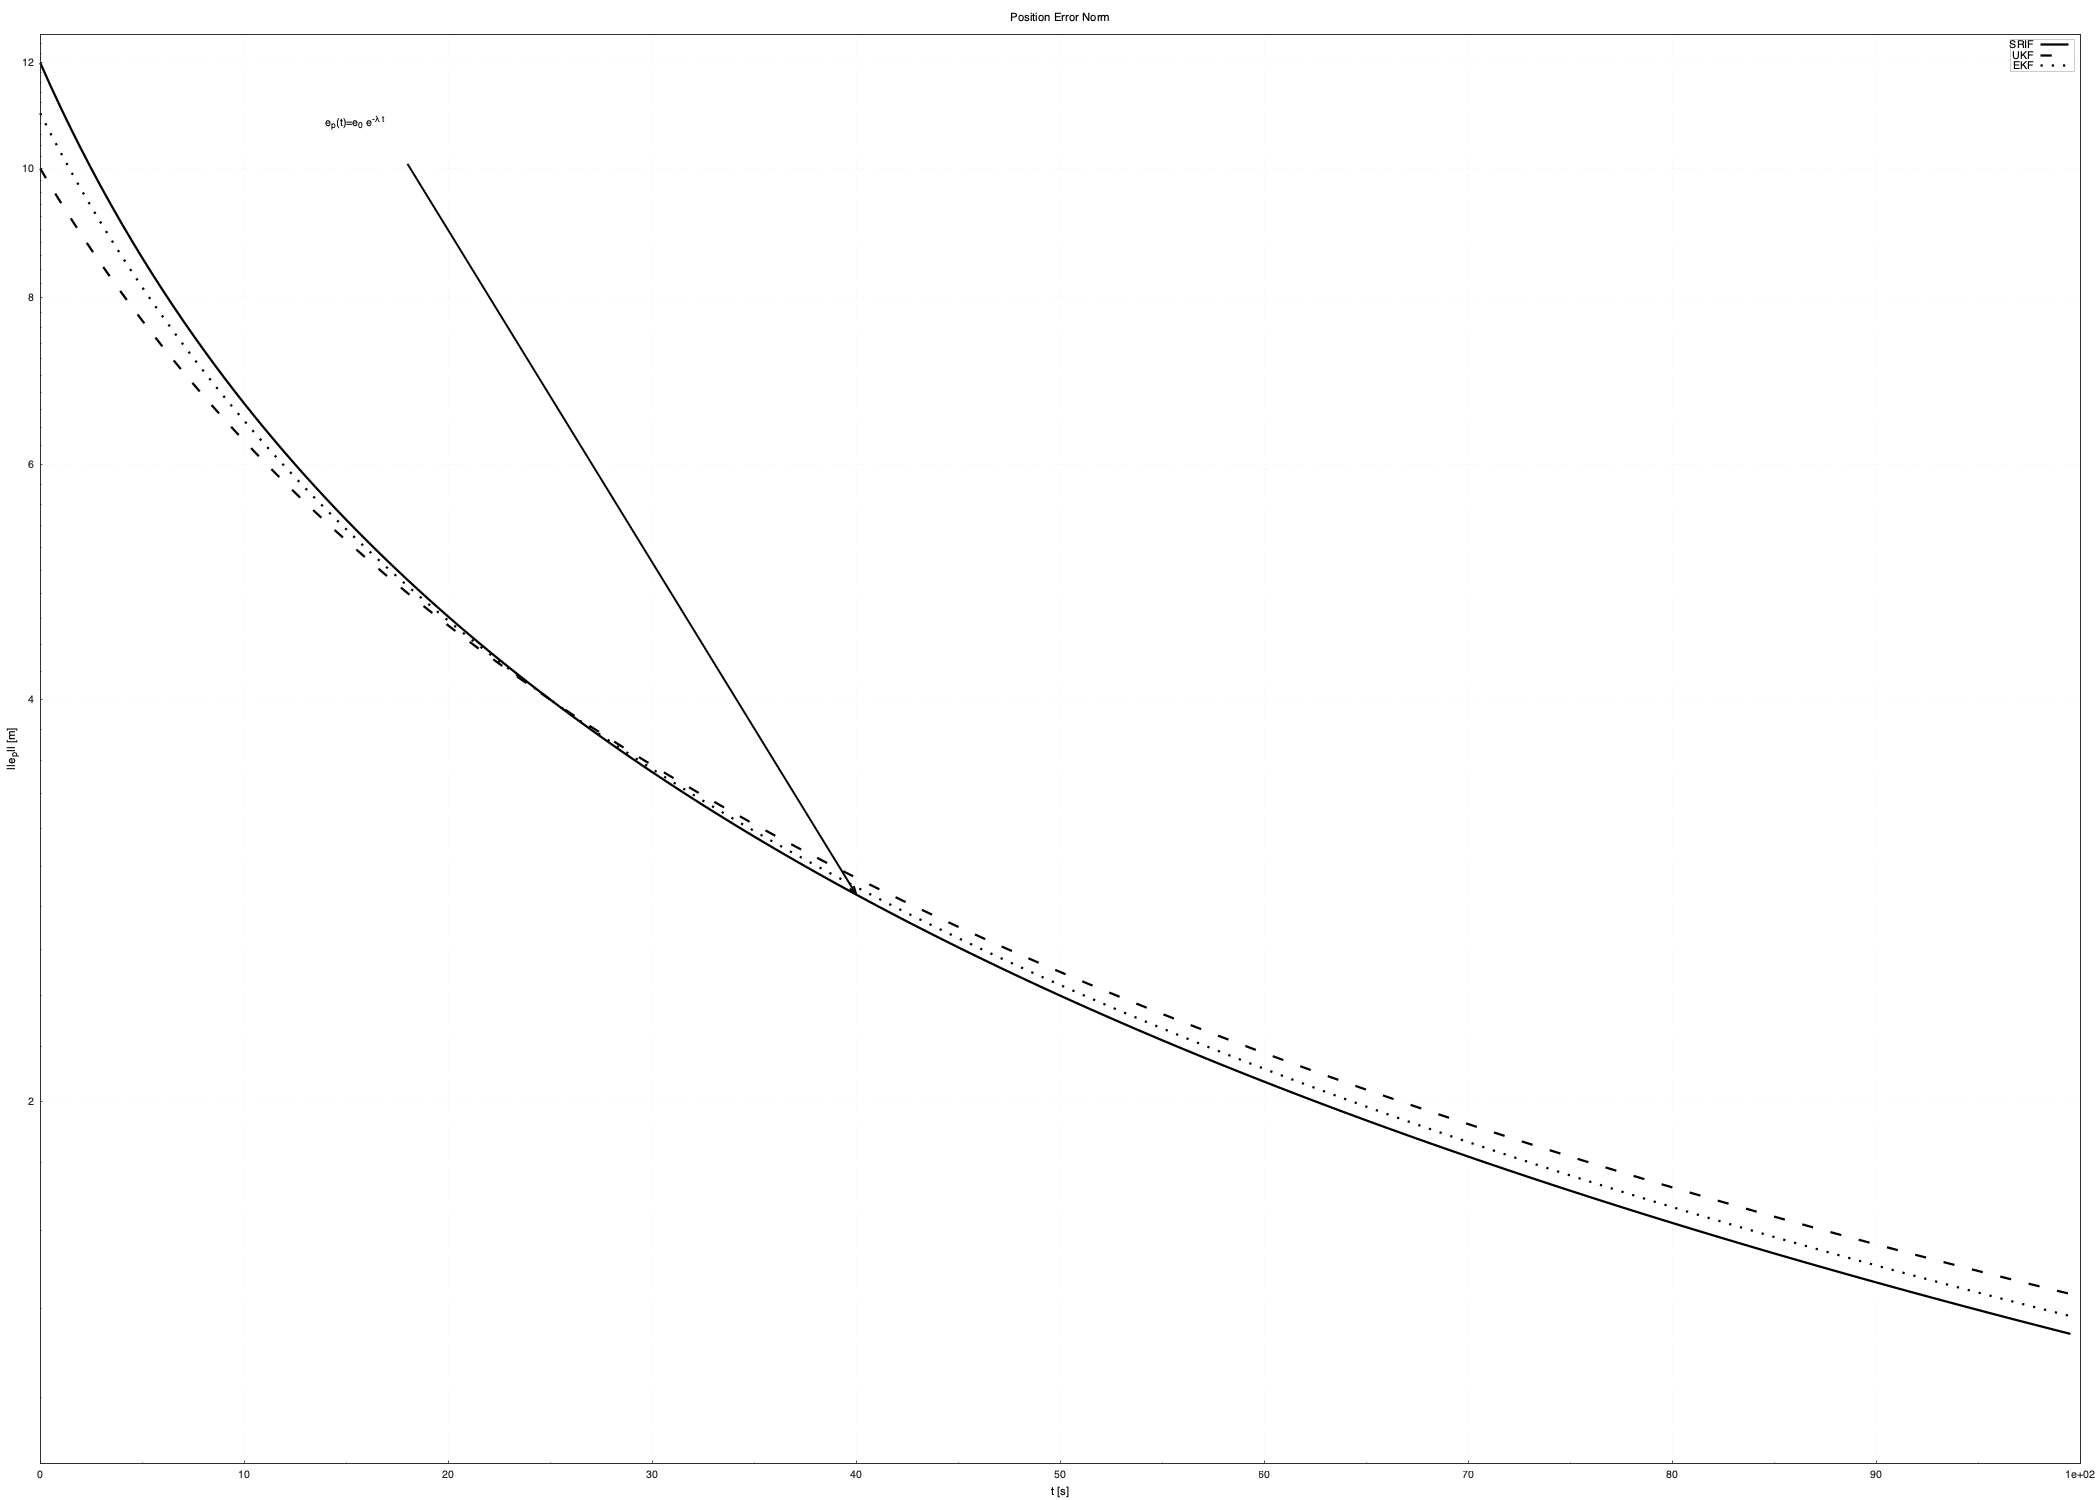
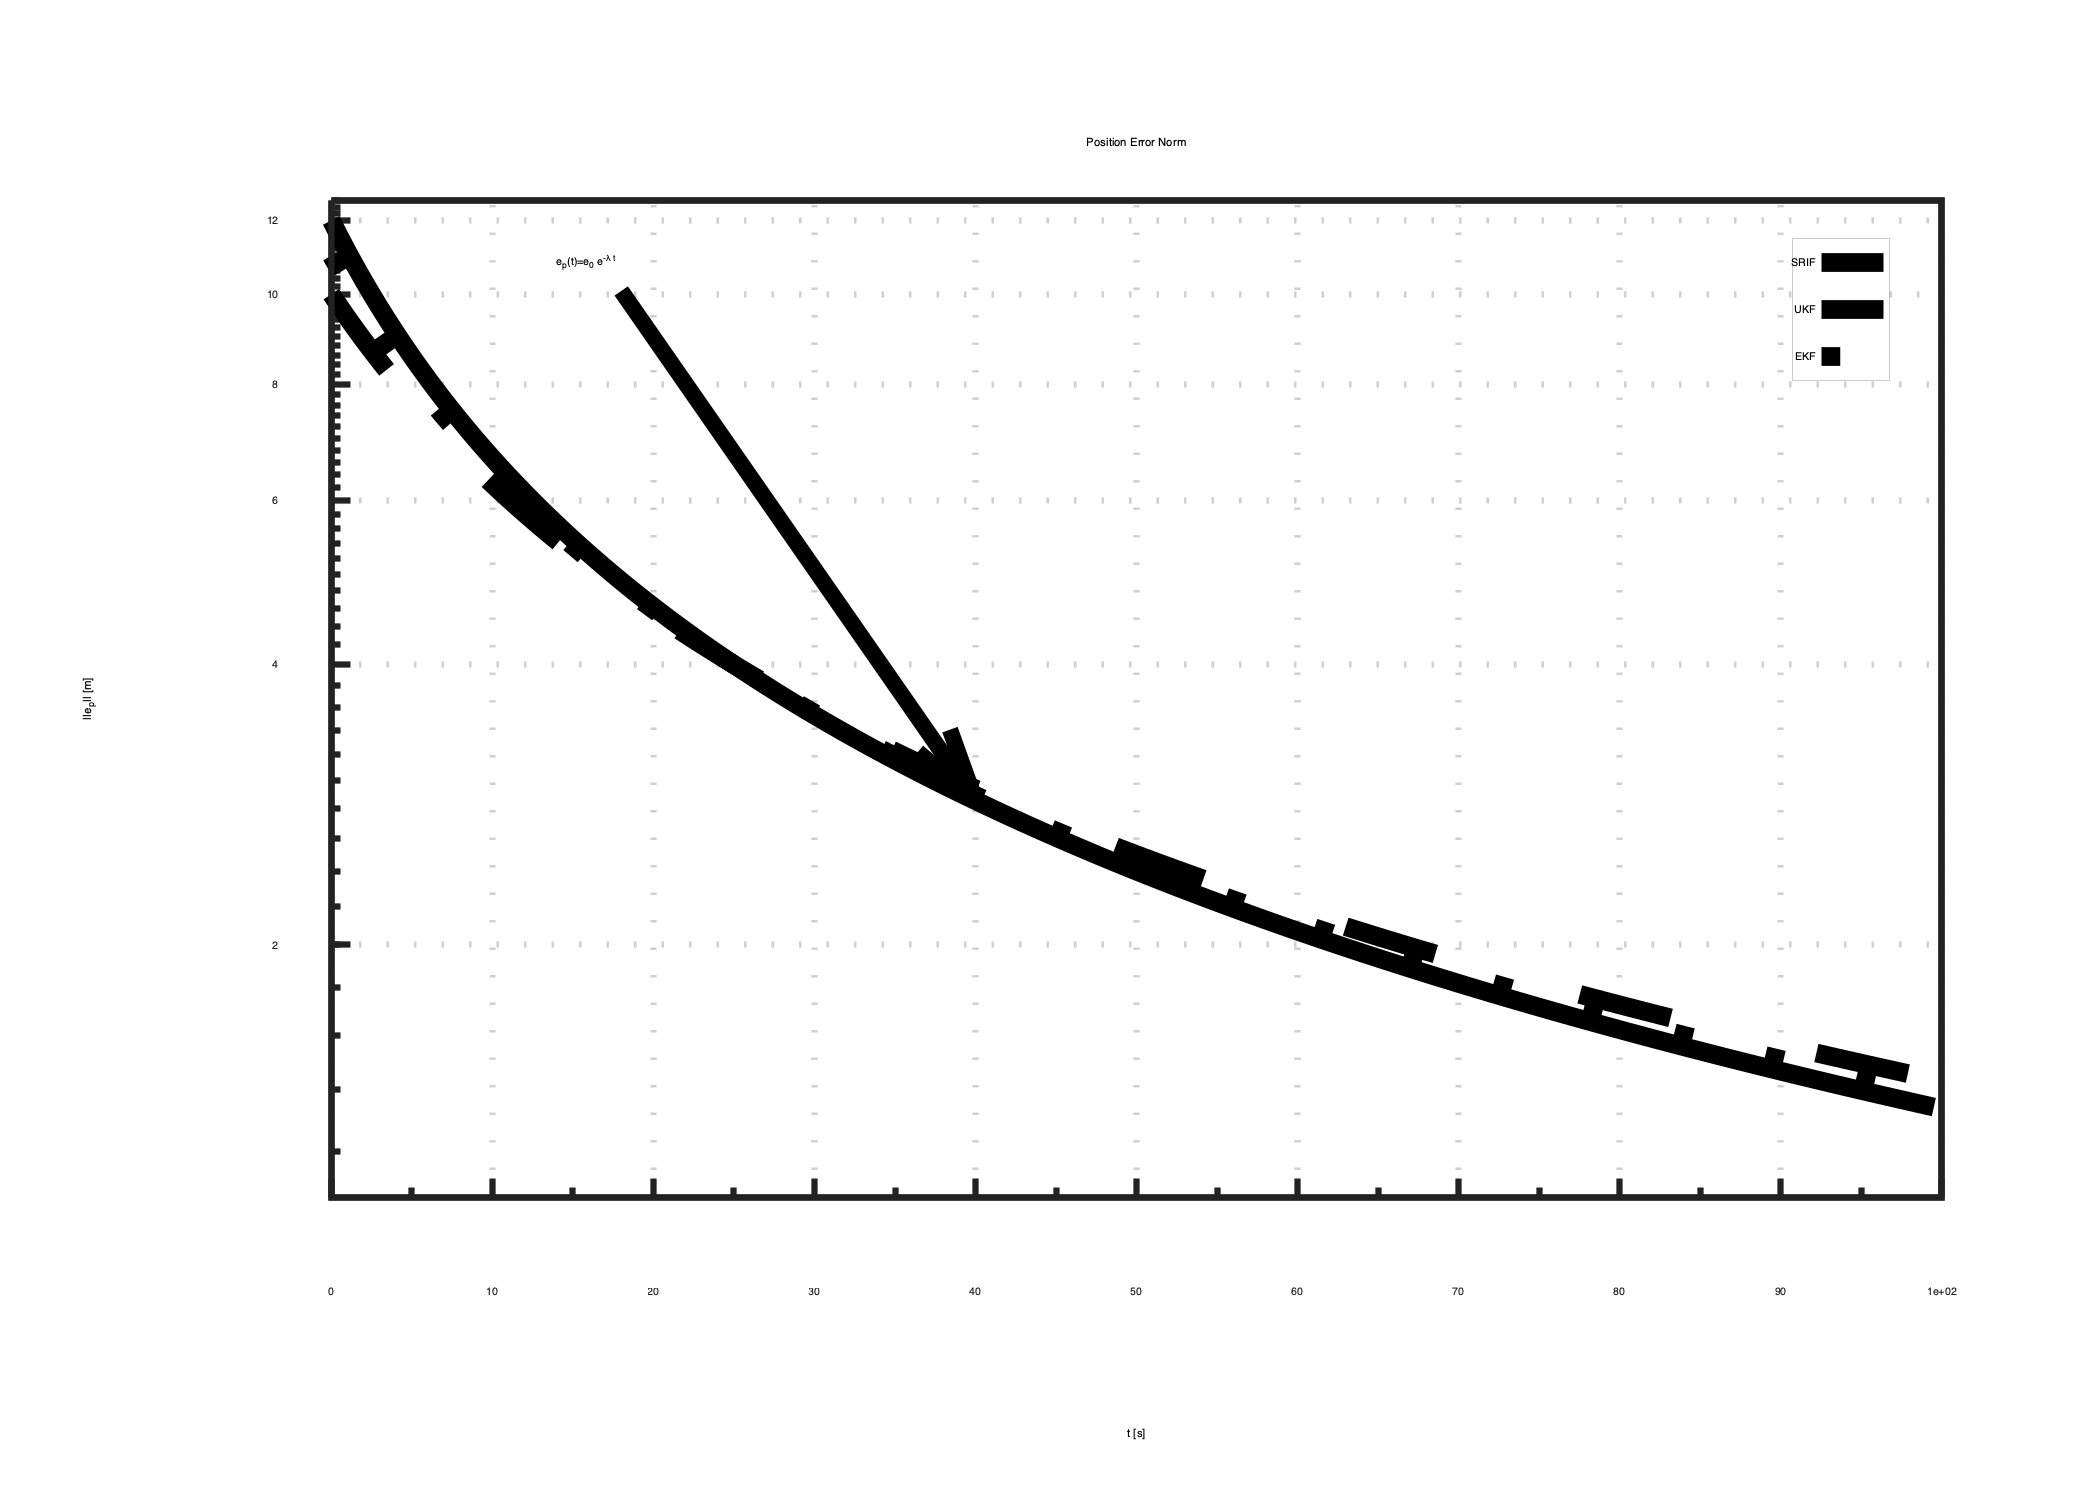
Scale 600 DPI PNG font and stroke widths and add regression test

diff --git a/src/gnuplot_backend.cpp b/src/gnuplot_backend.cpp
@@ -93,9 +93,15 @@ std::string terminal_for(OutputFormat format, const FigureSpec& spec) {
          << "' linewidth " << lw;
       return os.str();
     case OutputFormat::Png:
-      os << "set terminal pngcairo size " << (spec.size.w * 600.0) << ","
-         << (spec.size.h * 600.0) << " enhanced background rgb 'white' font '"
-         << spec.style.font << "," << spec.style.font_pt << "' linewidth " << lw;
+      constexpr double kPngDpi = 600.0;
+      constexpr double kPtPerIn = 72.0;
+      const double px_per_pt = kPngDpi / kPtPerIn;
+      const double png_font_px = std::max(6.0, spec.style.font_pt * px_per_pt);
+      const double png_lw_px = std::max(1.0, lw * px_per_pt);
+      os << "set terminal pngcairo size " << (spec.size.w * kPngDpi) << ","
+         << (spec.size.h * kPngDpi)
+         << " enhanced background rgb 'white' font '" << spec.style.font << ","
+         << png_font_px << "' linewidth " << png_lw_px;
       return os.str();
   }
   return {};

diff --git a/tests/gnuplot_backend_test.cpp b/tests/gnuplot_backend_test.cpp
@@ -25,7 +25,7 @@ int main() {
   apply_preset_defaults(spec);
   spec.rows = 1;
   spec.cols = 2;
-  spec.formats = {OutputFormat::Pdf};
+  spec.formats = {OutputFormat::Pdf, OutputFormat::Png};
 
   Figure fig(spec);
 
@@ -62,6 +62,8 @@ int main() {
   const auto script = read_file(result.script_path);
   assert(script.find("set multiplot layout 1,2") != std::string::npos);
   assert(script.find("set terminal pdfcairo") != std::string::npos);
+  assert(script.find("set terminal pngcairo") != std::string::npos);
+  assert(script.find("font 'Times,70.833'") != std::string::npos);
   assert(script.find("set monochrome") != std::string::npos);
   assert(script.find("dt 1") != std::string::npos);
   assert(script.find("plot") != std::string::npos);
